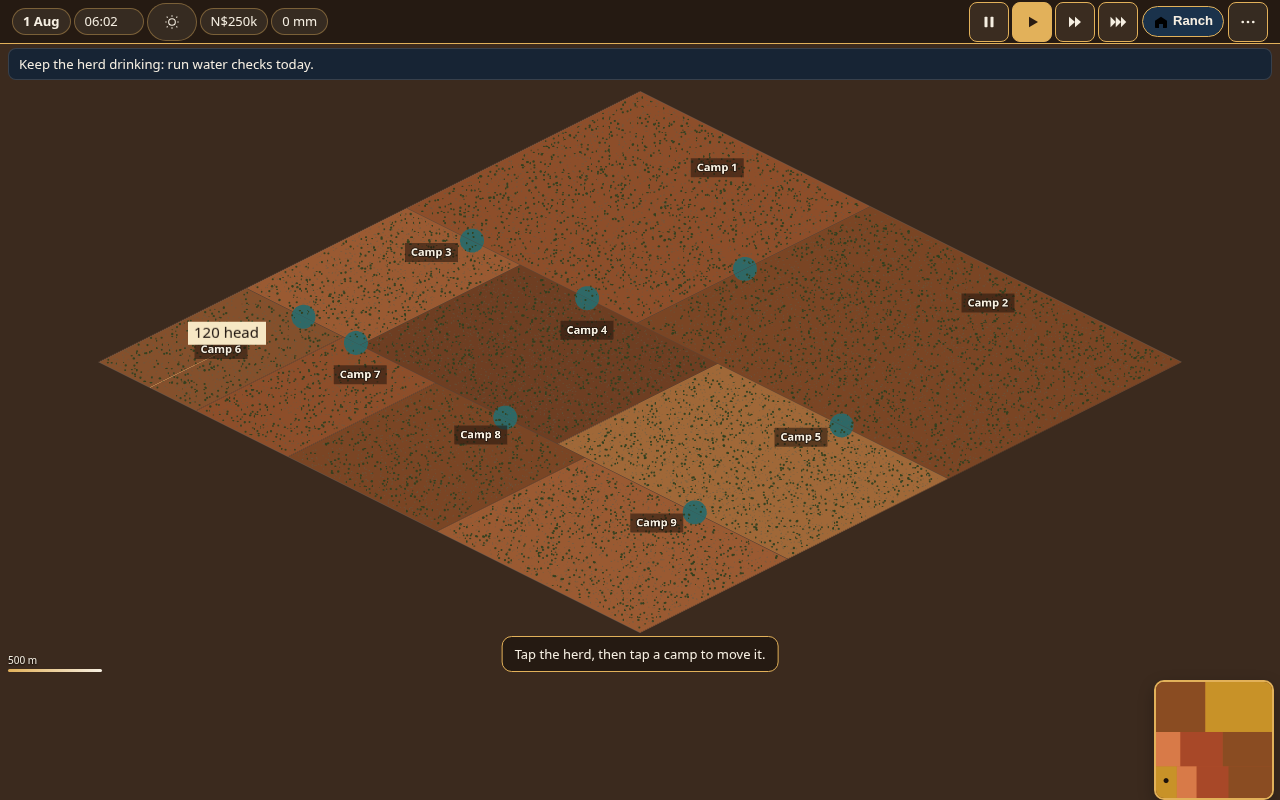
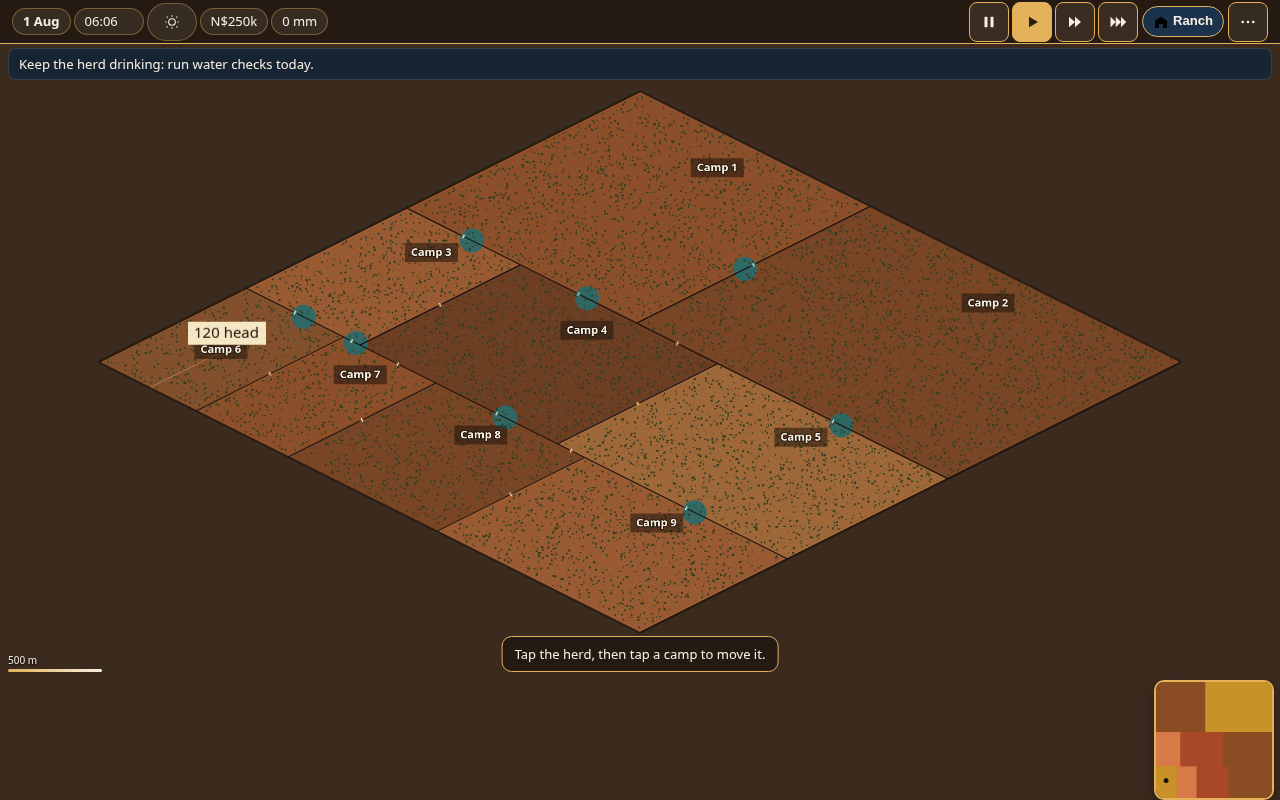
Draw far-zoom camp fences as thin dark lines.
At the whole-farm view the old stroke fell under one screen pixel, so only the camp colours showed. Inner wires are now about 1.15 px, the perimeter 1.5 px, and each gate is a small gap with a light tick.

diff --git a/src/render/fences.ts b/src/render/fences.ts
@@ -529,6 +529,134 @@ function strokeDoubleWire(
   }
 }
 
+/** Below this zoom the mid stroke is not used, and a world-pixel line shrinks under a screen pixel. */
+export const FENCE_FAR_MAX_ZOOM = 0.02;
+/** Inner fences at the whole-farm view. On-screen pixels, not world pixels. */
+export const FENCE_FAR_INNER_PX = 1.15;
+/** Outer perimeter, a little heavier than the inner wires. */
+export const FENCE_FAR_BOUNDARY_PX = 1.5;
+/** Opening left at a gate so the 3.6 m gap still reads when the farm fills the screen. */
+export const FENCE_FAR_GAP_PX = 4.5;
+/** Light tick across that opening. */
+export const FENCE_FAR_TICK_PX = 4;
+
+export type FarFenceStroke = {
+  x1: number;
+  y1: number;
+  x2: number;
+  y2: number;
+  screenPx: number;
+  role: "wire" | "gate";
+  kind: FenceSegment["kind"];
+};
+
+/** World-pixel stroke that lands at `screenPx` once the camera zoom is applied. */
+export function farFenceLineWidth(zoom: number, screenPx: number): number {
+  return screenPx / Math.max(zoom, 0.0004);
+}
+
+function farScreenPx(kind: FenceSegment["kind"]): number {
+  return kind === "inner" ? FENCE_FAR_INNER_PX : FENCE_FAR_BOUNDARY_PX;
+}
+
+/**
+ * Pull a wire back from a gate so the opening is at least `halfGap` world px
+ * from the gate centre. The real 3.6 m gap is a fraction of a pixel at farm zoom.
+ */
+function trimWireForFarGates(
+  wire: FenceSegment,
+  gates: FenceSegment[],
+  halfGap: number,
+): { x1: number; y1: number; x2: number; y2: number } | null {
+  const dx = wire.x2 - wire.x1;
+  const dy = wire.y2 - wire.y1;
+  const len = Math.hypot(dx, dy);
+  if (len < 1) return null;
+  const ux = dx / len;
+  const uy = dy / len;
+  let t0 = 0;
+  let t1 = len;
+  for (const gate of gates) {
+    const gdx = gate.x2 - gate.x1;
+    const gdy = gate.y2 - gate.y1;
+    const glen = Math.hypot(gdx, gdy) || 1;
+    const cross = dx * gdy - dy * gdx;
+    if (Math.abs(cross) / (len * glen) > 0.04) continue;
+    const cx = (gate.x1 + gate.x2) / 2;
+    const cy = (gate.y1 + gate.y2) / 2;
+    const lat = (cx - wire.x1) * -uy + (cy - wire.y1) * ux;
+    if (Math.abs(lat) > 12) continue;
+    const t = (cx - wire.x1) * ux + (cy - wire.y1) * uy;
+    if (t < -halfGap || t > len + halfGap) continue;
+    if (t <= len / 2) t0 = Math.max(t0, t + halfGap);
+    else t1 = Math.min(t1, t - halfGap);
+  }
+  if (t1 - t0 < 2) return null;
+  return {
+    x1: wire.x1 + ux * t0,
+    y1: wire.y1 + uy * t0,
+    x2: wire.x1 + ux * t1,
+    y2: wire.y1 + uy * t1,
+  };
+}
+
+/**
+ * Far-zoom fence plan. A few dozen runs, not the tree canopy, so this stays on
+ * the Graphics layer and is rebuilt with the view bucket. A baked wide texture
+ * would shrink a 1 px line under a texel.
+ */
+export function farFenceStrokes(segments: FenceSegment[], zoom: number): FarFenceStroke[] {
+  const z = Math.max(zoom, 0.0004);
+  const halfGap = FENCE_FAR_GAP_PX / 2 / z;
+  const gates = segments.filter((segment) => segment.gate);
+  const strokes: FarFenceStroke[] = [];
+  for (const wire of segments) {
+    if (wire.gate) continue;
+    const trimmed = trimWireForFarGates(wire, gates, halfGap);
+    if (!trimmed) continue;
+    strokes.push({
+      ...trimmed,
+      screenPx: farScreenPx(wire.kind),
+      role: "wire",
+      kind: wire.kind,
+    });
+  }
+  const tick = FENCE_FAR_TICK_PX / z;
+  for (const gate of gates) {
+    const dx = gate.x2 - gate.x1;
+    const dy = gate.y2 - gate.y1;
+    const len = Math.hypot(dx, dy) || 1;
+    const px = -dy / len;
+    const py = dx / len;
+    const cx = (gate.x1 + gate.x2) / 2;
+    const cy = (gate.y1 + gate.y2) / 2;
+    strokes.push({
+      x1: cx - px * (tick / 2),
+      y1: cy - py * (tick / 2),
+      x2: cx + px * (tick / 2),
+      y2: cy + py * (tick / 2),
+      screenPx: FENCE_FAR_INNER_PX,
+      role: "gate",
+      kind: gate.kind,
+    });
+  }
+  return strokes;
+}
+
+/** Thin dark camp lines for the whole-farm view. Gates are a gap plus a light tick. */
+export function drawFarFences(graphics: Phaser.GameObjects.Graphics, segments: FenceSegment[], zoom: number): void {
+  graphics.clear();
+  const z = Math.max(zoom, 0.0004);
+  for (const stroke of farFenceStrokes(segments, zoom)) {
+    const color = stroke.role === "gate" ? 0xf4ead8 : stroke.kind === "selected" ? palette.fenceSelected : 0x1a120e;
+    graphics.lineStyle(stroke.screenPx / z, color, stroke.role === "gate" ? 0.92 : 0.96);
+    graphics.beginPath();
+    graphics.moveTo(stroke.x1, stroke.y1);
+    graphics.lineTo(stroke.x2, stroke.y2);
+    graphics.strokePath();
+  }
+}
+
 export function drawFences(
   graphics: Phaser.GameObjects.Graphics,
   segments: FenceSegment[],

diff --git a/src/render/FarmScene.ts b/src/render/FarmScene.ts
@@ -77,8 +77,10 @@ import { groundTexture, terrainVariant, tileTint, trackKeys } from "./colour";
 import {
   closestPointOnFence,
   collectFenceSegments,
+  drawFarFences,
   drawFences,
   FENCE_CLOSE_VIEW_PX,
+  FENCE_FAR_MAX_ZOOM,
   FENCE_VIEW_BUCKET_PX,
   FENCE_WIDE_VIEW_PX,
 } from "./fences";
@@ -956,6 +958,19 @@ export class FarmScene extends Phaser.Scene {
     return camera.zoom <= 0.08;
   }
 
+  /** Whole property at a chosen zoom, still centred. Used for the far fence captures. */
+  private frameFarmAtZoom(zoom: number): { zoom: number; viewWidth: number } {
+    this.capturePin = null;
+    const camera = this.cameras.main;
+    this.refreshZoomLimits();
+    camera.setZoom(clampZoom(zoom, this.minZoom, this.maxZoom));
+    const mid = tileCenter(this.state.width / 2, this.state.height / 2, this.layout, this.groundTileW, this.groundTileH);
+    camera.centerOn(mid.x, mid.y);
+    this.clampScroll();
+    this.syncMetreFrame();
+    return { zoom: camera.zoom, viewWidth: liveCameraView(this).width };
+  }
+
   /** Handling yard beside the two-track, out from the homestead. */
   private prepareHandlingYardCapture(): boolean {
     this.capturePin = null;
@@ -1679,6 +1694,7 @@ export class FarmScene extends Phaser.Scene {
       prepareRoadWideCapture: () => this.prepareRoadWideCapture(),
       prepareFenceLineCapture: () => this.prepareFenceLineCapture(),
       prepareFarmMapCapture: () => this.prepareFarmMapCapture(),
+      frameFarmAtZoom: (zoom: number) => this.frameFarmAtZoom(zoom),
       prepareOneCampCapture: () => this.prepareOneCampCapture(),
       prepareHandlingYardCapture: () => this.prepareHandlingYardCapture(),
       prepareHomesteadCloseCapture: () => this.prepareHomesteadCloseCapture(),
@@ -2682,8 +2698,9 @@ export class FarmScene extends Phaser.Scene {
     const viewW = live?.width ?? 0;
     const closeEnough = !live || viewW < FENCE_CLOSE_VIEW_PX;
     const viewWide = Boolean(live && viewW > FENCE_WIDE_VIEW_PX);
+    const farFence = Boolean(this.metre && zoom < FENCE_FAR_MAX_ZOOM);
     const viewKey = live ? `${Math.round(live.x / FENCE_VIEW_BUCKET_PX)}:${Math.round(live.y / FENCE_VIEW_BUCKET_PX)}` : "0";
-    const sig = `${herdCamp}:${this.selected ? 1 : 0}:${paintedFence ? 1 : 0}:${Math.round(zoom * 50)}:${viewKey}:${closeEnough ? 1 : 0}:${viewWide ? 1 : 0}`;
+    const sig = `${herdCamp}:${this.selected ? 1 : 0}:${paintedFence ? 1 : 0}:${Math.round(zoom * 50)}:${viewKey}:${closeEnough ? 1 : 0}:${viewWide ? 1 : 0}:${farFence ? 1 : 0}`;
     if (sig === this.fenceSig) return;
     this.fenceSig = sig;
     this.fenceGates.forEach((gate) => gate.destroy());
@@ -2692,16 +2709,18 @@ export class FarmScene extends Phaser.Scene {
     this.fenceArt = [];
     const segments = collectFenceSegments(this.state, this.layout, herdCamp, this.selected);
     const closeFence = Boolean(live && viewW < FENCE_CLOSE_VIEW_PX);
-    const midFence = Boolean(this.metre && live && !closeFence && zoom >= 0.02 && zoom < 0.2);
+    const midFence = Boolean(this.metre && live && !closeFence && zoom >= FENCE_FAR_MAX_ZOOM && zoom < 0.2);
     if (closeFence && paintedFence) this.fences.clear();
+    else if (farFence) drawFarFences(this.fences, segments, zoom);
     else drawFences(this.fences, segments, zoom, { posts: !paintedFence && !this.metre, single: midFence });
     if (paintedFence) {
       this.fenceArt = placeV2Fences(this, segments, {
         maxPosts: this.metre && zoom < 0.08 ? 0 : 240,
         view: live ? { x: live.x, y: live.y, right: live.right, bottom: live.bottom } : undefined,
-        gatesOnly: midFence,
+        gatesOnly: midFence || farFence,
+        drawGates: !farFence,
       });
-    } else if (!midFence) this.fenceGates = placeGateSprites(this, segments, this.paintedSprites);
+    } else if (!midFence && !farFence) this.fenceGates = placeGateSprites(this, segments, this.paintedSprites);
   }
 
   private syncHerdFromSim(): void {

diff --git a/src/render/fences.test.ts b/src/render/fences.test.ts
@@ -5,11 +5,17 @@ import { metreSharedGate } from "../sim/metreFarm";
 import { campGateBetween, fenceCrossingsOffGate } from "../sim/path";
 import type { GameState } from "../sim/types";
 import {
+  FENCE_FAR_BOUNDARY_PX,
+  FENCE_FAR_GAP_PX,
+  FENCE_FAR_INNER_PX,
+  FENCE_FAR_TICK_PX,
   FENCE_VIEW_BUCKET_PX,
   FENCE_WIRE_PIECE_PX,
   FENCE_WIRE_STRAND_OFFSET_PX,
   closestPointOnFence,
   collectFenceSegments,
+  farFenceLineWidth,
+  farFenceStrokes,
   fencePieceInView,
   fenceViewMarginPx,
   mergeStraightFences,
@@ -325,6 +331,64 @@ describe("gate openings stay on their own wire", () => {
     expect(covers(100)).toBe(true);
     expect(covers(200)).toBe(false);
     expect(covers(300)).toBe(true);
+  });
+});
+
+describe("far zoom fence lines", () => {
+  it("keeps inner lines near 1 px and the perimeter a little heavier", () => {
+    const zoom = 0.012;
+    expect(farFenceLineWidth(zoom, FENCE_FAR_INNER_PX) * zoom).toBeCloseTo(FENCE_FAR_INNER_PX, 5);
+    expect(farFenceLineWidth(zoom, FENCE_FAR_BOUNDARY_PX) * zoom).toBeCloseTo(FENCE_FAR_BOUNDARY_PX, 5);
+    expect(FENCE_FAR_INNER_PX).toBeGreaterThanOrEqual(1);
+    expect(FENCE_FAR_INNER_PX).toBeLessThanOrEqual(1.5);
+    expect(FENCE_FAR_BOUNDARY_PX).toBeGreaterThan(FENCE_FAR_INNER_PX);
+    expect(FENCE_FAR_BOUNDARY_PX).toBeLessThanOrEqual(1.5);
+
+    const state = generateFarm(3300);
+    const layout = farmLayout(state);
+    const strokes = farFenceStrokes(collectFenceSegments(state, layout, state.herd.campId, false), zoom);
+    const wires = strokes.filter((stroke) => stroke.role === "wire");
+    const inner = wires.filter((stroke) => stroke.kind === "inner");
+    const boundary = wires.filter((stroke) => stroke.kind === "boundary");
+    expect(inner.length).toBeGreaterThan(0);
+    expect(boundary.length).toBeGreaterThan(0);
+    for (const stroke of inner) expect(stroke.screenPx).toBe(FENCE_FAR_INNER_PX);
+    for (const stroke of boundary) expect(stroke.screenPx).toBe(FENCE_FAR_BOUNDARY_PX);
+  });
+
+  it("opens each sim gate by a few screen pixels and marks it with a short tick", () => {
+    const zoom = 0.012;
+    const state = generateFarm(3300);
+    const layout = farmLayout(state);
+    const segments = collectFenceSegments(state, layout, state.herd.campId, false);
+    const strokes = farFenceStrokes(segments, zoom);
+    const wires = strokes.filter((stroke) => stroke.role === "wire");
+    const ticks = strokes.filter((stroke) => stroke.role === "gate");
+    const gates = segments.filter((segment) => segment.gate);
+    expect(ticks).toHaveLength(gates.length);
+    const halfGap = FENCE_FAR_GAP_PX / 2;
+    for (const gate of gates) {
+      const cx = (gate.x1 + gate.x2) / 2;
+      const cy = (gate.y1 + gate.y2) / 2;
+      const tick = ticks.find((stroke) => Math.hypot((stroke.x1 + stroke.x2) / 2 - cx, (stroke.y1 + stroke.y2) / 2 - cy) < 1);
+      expect(tick).toBeTruthy();
+      const tickScreen = Math.hypot(tick!.x2 - tick!.x1, tick!.y2 - tick!.y1) * zoom;
+      expect(tickScreen).toBeCloseTo(FENCE_FAR_TICK_PX, 4);
+      let nearest = Number.POSITIVE_INFINITY;
+      for (const wire of wires) {
+        const point = closestPointOnFence(cx, cy, { ...wire, gate: false });
+        nearest = Math.min(nearest, Math.hypot(point.x - cx, point.y - cy) * zoom);
+      }
+      expect(nearest).toBeGreaterThan(halfGap - 0.2);
+    }
+  });
+
+  it("does not pull a wire that is not on the gate line", () => {
+    const wire = { x1: 0, y1: 400, x2: 1000, y2: 400, kind: "inner" as const, gate: false };
+    const gate = { x1: 480, y1: 0, x2: 520, y2: 0, kind: "inner" as const, gate: true };
+    const strokes = farFenceStrokes([wire, gate], 0.01);
+    const kept = strokes.find((stroke) => stroke.role === "wire");
+    expect(kept).toMatchObject({ x1: 0, y1: 400, x2: 1000, y2: 400 });
   });
 });
 

diff --git a/src/render/v2Art.ts b/src/render/v2Art.ts
@@ -612,6 +612,7 @@ export function placeV2Fences(
     maxPosts?: number;
     view?: { x: number; y: number; right: number; bottom: number };
     gatesOnly?: boolean;
+    drawGates?: boolean;
   },
 ): Phaser.GameObjects.Image[] {
   const images: Phaser.GameObjects.Image[] = [];
@@ -680,6 +681,7 @@ export function placeV2Fences(
       if (image) images.push(image);
     }
   }
+  if (limit?.drawGates === false) return images;
   for (const segment of segments) {
     if (!segment.gate) continue;
     const dx = segment.x2 - segment.x1;
